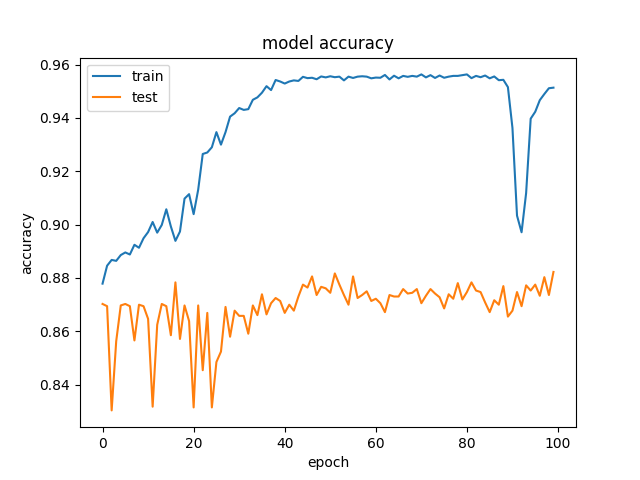
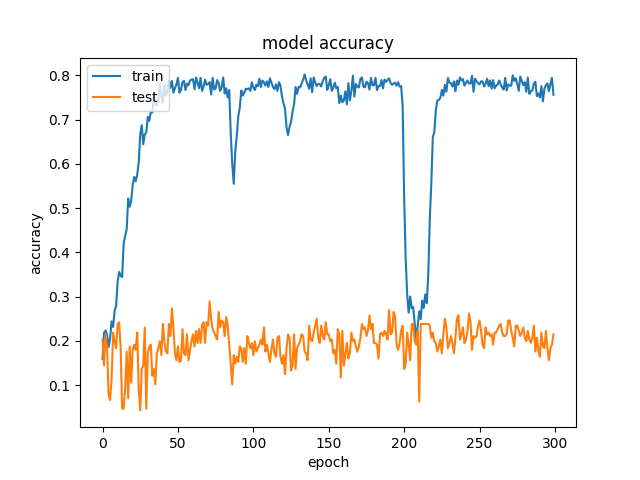
01

diff --git a/one_gpu_nih.py b/one_gpu_nih.py
@@ -116,12 +116,12 @@ model.add(Dense(512))
 model.add(Dropout(0.3))
 model.add(Dense(256))
 model.add(Dropout(0.3))
-model.add(Dense(len(all_labels), activation='sigmoid'))
-model.compile(loss='binary_crossentropy', optimizer='adam', metrics=['categorical_accuracy'])
+model.add(Dense(len(all_labels), activation='softmax'))
+model.compile(loss='categorical_crossentropy', optimizer='adam', metrics=['categorical_accuracy'])
 model.summary()
 
 
-history = model.fit(X_train, y_train, epochs = 100, batch_size=64, verbose=1, validation_split=0.2 , shuffle=True)
+history = model.fit(X_train, y_train, epochs = 300, batch_size=64, verbose=1, validation_split=0.2 , shuffle=True)
 
 model.save('../nih_sample/nih_model_50_01.h5')
 def history_plot(history):
